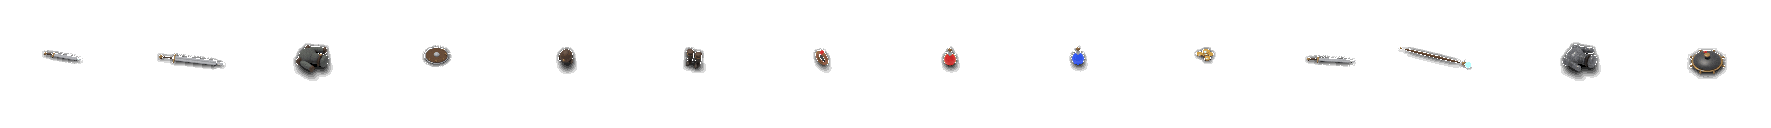
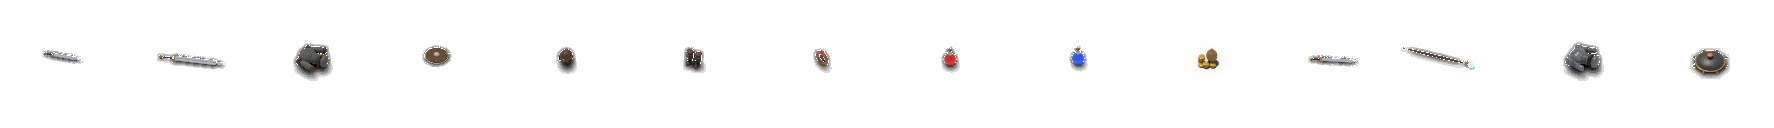
Carry gold in the bag as the original does
Gold was a counter. ShadowFlare.exe keeps it in the bag as Gold items of
up to 10000 each and adds them up for Total Gold (0x466d70): gold coming
in tops up the stacks and then fills free cells row by row, refused when
there is not room for all of it (0x466e10), and paying takes from the
smallest stack first (0x466da0). Picking gold up, monster gold, shop
sales and purchases and scripts all go through that; a sale with no room
for the gold is refused. Older saves' gold counter goes into the bag on
loading. The hover box shows a stack's amount.

The open pack's gold picture is redrawn as a tied leather purse with
coins in front of it, so a stack reads clearly in one bag cell.

Claude-Session: https://claude.ai/code/session_01DAtBbXnNA5gayMNgbWVFJK

diff --git a/src/logic/inventory.cpp b/src/logic/inventory.cpp
@@ -102,6 +102,65 @@ void Inventory::clear() {
     gold_ = 0;
 }
 
+int Inventory::gold() const {
+    int total = gold_;
+    for (const auto& p : bag_) {
+        if (p.item.def->isGold()) total += p.item.count;
+    }
+    return total;
+}
+
+bool Inventory::addGold(int amount) {
+    if (amount < 0) {
+        int owed = -amount;
+        if (gold() < owed) return false;
+        const int fromCounter = std::min(owed, gold_);
+        gold_ -= fromCounter;
+        owed -= fromCounter;
+        while (owed > 0) {
+            auto smallest = bag_.end();
+            for (auto it = bag_.begin(); it != bag_.end(); ++it) {
+                if (it->item.def->isGold() && (smallest == bag_.end() || it->item.count < smallest->item.count)) smallest = it;
+            }
+            if (smallest->item.count > owed) {
+                smallest->item.count -= owed;
+                break;
+            }
+            owed -= smallest->item.count;
+            bag_.erase(smallest);
+        }
+        return true;
+    }
+    if (!goldDef_) {
+        gold_ += amount;
+        return true;
+    }
+    int room = 0;
+    for (const auto& p : bag_) {
+        if (p.item.def->isGold()) room += kGoldStack - p.item.count;
+    }
+    for (int y = 0; y < kBagHeight; ++y) {
+        for (int x = 0; x < kBagWidth; ++x) room += fits(1, 1, x, y) ? kGoldStack : 0;
+    }
+    if (room < amount) return false;
+    for (auto& p : bag_) {
+        if (amount == 0) break;
+        if (!p.item.def->isGold()) continue;
+        const int put = std::min(amount, kGoldStack - p.item.count);
+        p.item.count += put;
+        amount -= put;
+    }
+    for (int y = 0; y < kBagHeight && amount > 0; ++y) {
+        for (int x = 0; x < kBagWidth && amount > 0; ++x) {
+            if (!fits(1, 1, x, y)) continue;
+            const int put = std::min(amount, kGoldStack);
+            bag_.push_back({Item{goldDef_, put}, x, y});
+            amount -= put;
+        }
+    }
+    return true;
+}
+
 bool Inventory::fits(int w, int h, int x, int y) const {
     if (x < 0 || y < 0 || x + w > kBagWidth || y + h > kBagHeight) return false;
     return std::ranges::none_of(bag_, [&](const Placed& p) {
@@ -119,10 +178,7 @@ int Inventory::indexAt(int x, int y) const {
 
 bool Inventory::add(const Item& item) {
     if (!item.def) return false;
-    if (item.def->isGold()) {
-        gold_ += item.count;
-        return true;
-    }
+    if (item.def->isGold()) return addGold(item.count);
     for (int x = 0; x < kBagWidth; ++x) {
         for (int y = 0; y < kBagHeight; ++y) {
             if (addAt(item, x, y)) return true;

diff --git a/src/logic/inventory.h b/src/logic/inventory.h
@@ -93,8 +93,19 @@ public:
 
     const std::vector<Placed>& bag() const { return bag_; }
     const std::optional<Item>& equipped(EquipSlot slot) const { return equipped_[static_cast<int>(slot)]; }
-    int gold() const { return gold_; }
-    void addGold(int amount) { gold_ += amount; }
+    // Gold is carried in the bag as Gold items (special 0) of up to 10000
+    // each, as in the original; the item window adds them up (0x466d70).
+    // Without a Gold item to make stacks of, a plain counter stands in.
+    static constexpr int kGoldStack = 10000;
+    void setGoldDef(const ItemDef* def) { goldDef_ = def; }
+    int gold() const;
+    int looseGold() const { return gold_; }  // the counter's part
+    // Positive amounts go into the bag (0x466e10): the stacks there are
+    // topped up to 10000 in bag order, then new stacks fill free cells row
+    // by row. Negative ones are paid from the smallest stack first
+    // (0x466da0). False, with nothing changed, when there is not room or
+    // not enough.
+    bool addGold(int amount);
     void clear();
 
     // Whether a w x h item fits with its top-left at (x, y).
@@ -102,7 +113,8 @@ public:
     // The bag entry covering a cell, or -1.
     int indexAt(int x, int y) const;
     // Puts an item in the first place it fits, column by column from the
-    // left. Gold goes to the gold counter. False when the bag is full.
+    // left. Gold joins the bag's gold (see addGold). False when the bag is
+    // full.
     bool add(const Item& item);
     bool addAt(const Item& item, int x, int y);
     // An item picked up from the ground (0x449ef0): consumables marked for
@@ -202,7 +214,8 @@ private:
     std::vector<Placed> bag_;
     std::array<std::optional<Item>, kBeltWidth * kBeltHeight> belt_;
     std::array<std::optional<Item>, kEquipSlotCount> equipped_;
-    int gold_ = 0;
+    int gold_ = 0;  // only without a Gold item
+    const ItemDef* goldDef_ = nullptr;
 };
 
 }  // namespace sf

diff --git a/tests/inventory_test.cpp b/tests/inventory_test.cpp
@@ -609,6 +609,28 @@ void testTakeAll() {
     check(inventory.takeAll(Class::Special, 1) == 0, "and then there are none");
 }
 
+// Gold kept in the bag as stacks of up to 10000 (0x466e10, 0x466da0).
+void testGoldInBag() {
+    sf::Inventory inv;
+    inv.setGoldDef(&kGold);
+    check(inv.add({&kGold, 150}) && inv.bag().size() == 1 && inv.bag()[0].x == 0 && inv.bag()[0].y == 0,
+          "picked-up gold becomes a stack in the first free cell");
+    check(inv.addGold(9900) && inv.bag().size() == 2 && inv.bag()[0].item.count == 10000 && inv.bag()[1].item.count == 50 &&
+              inv.bag()[1].x == 1 && inv.bag()[1].y == 0,
+          "stacks fill to 10000, then a new one goes in the next cell of the row");
+    check(inv.gold() == 10050, "the total adds up the stacks");
+    check(inv.addGold(-30) && inv.bag()[1].item.count == 20 && inv.bag()[0].item.count == 10000,
+          "paying takes from the smallest stack");
+    check(inv.addGold(-1000) && inv.bag().size() == 1 && inv.gold() == 9020, "an emptied stack leaves the bag");
+    check(!inv.addGold(-10000) && inv.gold() == 9020, "not enough gold pays nothing");
+    sf::Inventory full;
+    full.setGoldDef(&kGold);
+    for (int i = 0; i < 4; ++i) full.add({&kGreatSword});
+    check(full.addGold(5000) && full.bag().back().x == 8 && full.bag().back().y == 0, "gold takes the one free column");
+    check(full.addGold(20000) && full.gold() == 25000, "it fills that column");
+    check(!full.addGold(20000) && full.gold() == 25000, "no room: nothing is added");
+}
+
 // What is worn, weighed as the item window does (0x445630).
 void testWornWeight() {
     auto heavy = [](sf::ItemDef d, int weight) {
@@ -642,6 +664,7 @@ int main() {
     testWearRepairIdentify();
     testModifiers();
     testWornWeight();
+    testGoldInBag();
     if (failures == 0) std::puts("all inventory tests passed");
     return failures == 0 ? EXIT_SUCCESS : EXIT_FAILURE;
 }

diff --git a/tools/art/items.py b/tools/art/items.py
@@ -172,13 +172,23 @@ def thing(kind):
                 add(shape("cone", (0.04, 0.04, 0.05), brass))
                 made[-1].location = (0.86 * math.cos(a), 0.86 * math.sin(a), 0.06)
     elif kind == "gold":
+        # A tied leather purse with coins spilled in front of it, so a
+        # stack of gold reads clearly in one bag cell.
         gold = mat("gold", (0.98, 0.78, 0.25), (0.55, 0.36, 0.06), scale=30, rough=0.25, bump=0.2)
-        coins = [(0, 0, 0), (0, 0, 1), (0.02, 0.01, 2), (-0.01, 0.02, 3), (0.12, -0.05, 0), (0.12, -0.05, 1),
-                 (-0.11, -0.06, 0), (-0.05, 0.11, 0), (0.06, 0.10, 0)]
+        purse = mat("purse leather", (0.78, 0.60, 0.38), (0.36, 0.22, 0.11), scale=24, rough=0.6, bump=0.5)
+        add(shape("ball", (0.13, 0.12, 0.15), purse))
+        made[-1].location = (0.04, 0.08, 0.15)
+        add(shape("cone", (0.07, 0.07, 0.08), purse))
+        made[-1].location = (0.04, 0.08, 0.32)
+        add(shape("cylinder", (0.055, 0.055, 0.015), dark))
+        made[-1].location = (0.04, 0.08, 0.28)
+        coins = [(-0.11, -0.09, 0), (-0.11, -0.09, 1), (-0.10, -0.08, 2), (-0.11, -0.10, 3), (-0.10, -0.09, 4),
+                 (0.07, -0.13, 0), (0.08, -0.12, 1), (0.07, -0.13, 2), (-0.20, 0.02, 0), (0.17, -0.02, 0),
+                 (-0.02, -0.18, 0), (0.17, -0.02, 1)]
         for x, y, k in coins:
-            add(shape("cylinder", (0.07, 0.07, 0.013), gold))
-            made[-1].location = (x, y, 0.013 + 0.027 * k)
-            made[-1].rotation_euler = (0.1 * ((k + x * 10) % 3 - 1), 0.08 * (k % 2), 0)
+            add(shape("cylinder", (0.075, 0.075, 0.014), gold))
+            made[-1].location = (x, y, 0.012 + 0.025 * k)
+            made[-1].rotation_euler = (0.12 * ((k + int(x * 100)) % 3 - 1), 0.1 * (k % 2), 0)
     return made
 
 

diff --git a/src/logic/save_game.cpp b/src/logic/save_game.cpp
@@ -248,7 +248,9 @@ SaveGame SaveGame::parse(std::string_view text) {
 }
 
 void SaveGame::store(const Inventory& inventory) {
-    gold = inventory.gold();
+    // Gold in the bag is saved with the bag; `gold` keeps only a counter's
+    // (no Gold item to stack, or an older save).
+    gold = inventory.looseGold();
     bag.clear();
     for (const auto& p : inventory.bag()) bag.push_back({ref(p.item), p.x, p.y});
     belt.clear();
@@ -265,7 +267,6 @@ void SaveGame::store(const Inventory& inventory) {
 
 int SaveGame::restore(Inventory& inventory, const ItemTable& items) const {
     inventory.clear();
-    inventory.addGold(gold);
     int skipped = 0;
     auto find = [&](const ItemRef& r) { return items.find(static_cast<ItemDef::Class>(r.cls), r.code); };
     for (const auto& e : bag) {
@@ -285,6 +286,8 @@ int SaveGame::restore(Inventory& inventory, const ItemTable& items) const {
             ++skipped;
         }
     }
+    // A counter's gold goes back, into the bag where there is a Gold item.
+    if (gold > 0 && !inventory.addGold(gold)) ++skipped;
     return skipped;
 }
 

diff --git a/src/game/items.cpp b/src/game/items.cpp
@@ -93,6 +93,7 @@ void Game::loadItems() {
             }
         }
     }
+    inventory_.setGoldDef(items_.find(ItemDef::Class::Special, 0));
     log::info("Loaded {} item definitions", items_.items.size());
 }
 
@@ -671,7 +672,8 @@ void Game::renderItemPopup(const Item& item, int mx, int my) {
     const ItemDef& def = *item.def;
     std::vector<std::pair<std::string, SDL_Color>> lines;
     const bool unusable = def.requiredLevel > playerLevel_ || item.broken();
-    lines.emplace_back(item.shownName() + (item.unidentified ? "  ?" : ""), unusable ? kRed : kWhite);
+    const std::string name = def.isGold() ? std::format("{} {}", item.count, item.shownName()) : item.shownName();
+    lines.emplace_back(name + (item.unidentified ? "  ?" : ""), unusable ? kRed : kWhite);
     std::string stats;
     const auto& s = def.stats;
     // Unidentified items keep what they do to themselves.

diff --git a/src/game/talk.cpp b/src/game/talk.cpp
@@ -591,7 +591,11 @@ bool Game::shopClick(int x, int y, bool right) {
             return true;
         }
         const int price = sellPrice(*hand_, modifierPrices_) * std::max(1, hand_->count);
-        inventory_.addGold(price);
+        // The gold goes in the bag; with no room for it there is no sale.
+        if (!inventory_.addGold(price)) {
+            showMessage("No room in the bag");
+            return true;
+        }
         stock.add(*hand_);
         showMessage(std::format("Sold for {} gold", price));
         hand_.reset();

diff --git a/docs/formats.md b/docs/formats.md
@@ -919,6 +919,14 @@ marks the hero's place on the attribute disc at (80 + x x 48 / 20000,
 330 - y x 48 / 20000), fading in and out over 50 frames. Not done yet: a
 bowgun's attack shown scaled for anyone but a hunter, and Max at level 100.
 
+Gold is not a counter: it is carried in the bag as Gold items (special
+0, 1 x 1, Item0000.njp pattern 270) holding up to 10000 each in the
+item's word at 0x40, and Total Gold adds them up (0x466d70). Gold coming
+in (0x466e10) first checks there is room for all of it (what the stacks
+lack of 10000 plus 10000 a free cell), then tops up the stacks in bag
+order and puts new stacks in free cells, row by row. Paying (0x466da0)
+takes from the smallest stack first, removing stacks it empties.
+
 While a window covers half the screen the view keeps the hero in the
 middle of the other half (0x41e8f0; the open windows are counted at
 0x416fb0): the item window on the right puts the hero at x = 160, a window
